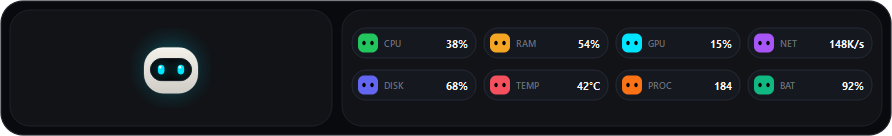
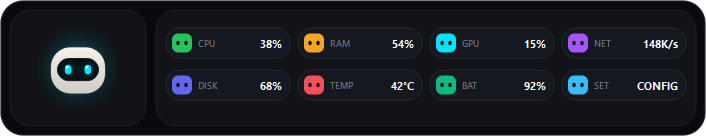
feat(island): compact left dock chamber and resize top island to 706px

diff --git a/src/senti_island.py b/src/senti_island.py
@@ -110,8 +110,8 @@ class TopIslandWindow(QWidget):
         # Ensure native platform window handle is instantiated
         self.winId()
 
-        # Minimalist 892 x 136 layout (clean dual-card design with 8 subsystem pills)
-        self.setFixedSize(892, 136)
+        # Minimalist 706 x 136 layout (clean dual-card design with 8 subsystem pills)
+        self.setFixedSize(706, 136)
 
         # Telemetry data
         self._telemetry: Dict[str, Any] = {
@@ -212,8 +212,8 @@ class TopIslandWindow(QWidget):
         anim_timer.start()
 
     def get_dock_target_pos(self, senti_size: int = 80) -> QPoint:
-        """Calculate screen position where SENTI nests inside Card 1 (cx: 171, cy: 68)."""
-        dock_x = self.x() + 171 - senti_size // 2
+        """Calculate screen position where SENTI nests inside Card 1 (cx: 78, cy: 68)."""
+        dock_x = self.x() + 78 - senti_size // 2
         dock_y = self.y() + 68 - senti_size // 2
         return QPoint(dock_x, dock_y)
 
@@ -239,26 +239,26 @@ class TopIslandWindow(QWidget):
     def _hit_test(self, pos: QPoint) -> Optional[str]:
         px, py = pos.x(), pos.y()
 
-        # Right Card: 8 subsystem pills in 4x2 matrix (px: 342..882, py: 10..126)
-        if 342 <= px <= 882 and 10 <= py <= 126:
+        # Right Card: 8 subsystem pills in 4x2 matrix (px: 156..696, py: 10..126)
+        if 156 <= px <= 696 and 10 <= py <= 126:
             # Row determination
             if py < 65:
                 # Row 1: CPU, RAM, GPU, NET
-                if px < 480:
+                if px < 294:
                     return "pill_cpu"
-                elif px < 612:
+                elif px < 426:
                     return "pill_ram"
-                elif px < 744:
+                elif px < 558:
                     return "pill_gpu"
                 else:
                     return "pill_net"
             else:
                 # Row 2: DISK, TEMP, SYS, SET
-                if px < 480:
+                if px < 294:
                     return "pill_disk"
-                elif px < 612:
+                elif px < 426:
                     return "pill_temp"
-                elif px < 744:
+                elif px < 558:
                     return "pill_sys"
                 else:
                     return "pill_set"
@@ -485,15 +485,15 @@ class TopIslandWindow(QWidget):
         self._paint_card_2(p)
 
     def _paint_card_1(self, p: QPainter):
-        """Paint Card 1 (Left: 322x116, radius 20, solid dark matte #111317)."""
-        c1_rect = QRectF(10.0, 10.0, 322.0, 116.0)
+        """Paint Card 1 (Left: 136x116, radius 20, solid dark matte #111317)."""
+        c1_rect = QRectF(10.0, 10.0, 136.0, 116.0)
         p.setPen(QPen(QColor("#1c2028"), 1.0))
         p.setBrush(QColor("#111317"))
         p.drawRoundedRect(c1_rect, 20.0, 20.0)
 
     def _paint_card_2(self, p: QPainter):
         """Paint Card 2 (Right: 540x116, radius 20, solid dark matte #111317, 8 pills in 4x2 grid)."""
-        c2_rect = QRectF(342.0, 10.0, 540.0, 116.0)
+        c2_rect = QRectF(156.0, 10.0, 540.0, 116.0)
         p.setPen(QPen(QColor("#1c2028"), 1.0))
         p.setBrush(QColor("#111317"))
         p.drawRoundedRect(c2_rect, 20.0, 20.0)
@@ -530,11 +530,11 @@ class TopIslandWindow(QWidget):
             hours = uptime_s / 3600.0
             bat_str = f"{hours:.1f}h" if hours < 24 else f"{(hours/24):.1f}d"
 
-        # 4x2 matrix layout (124px width, 8px gap -> 352..872)
-        col1_x = 352.0
-        col2_x = 484.0
-        col3_x = 616.0
-        col4_x = 748.0
+        # 4x2 matrix layout (124px width, 8px gap -> 166..686)
+        col1_x = 166.0
+        col2_x = 298.0
+        col3_x = 430.0
+        col4_x = 562.0
         row1_y = 28.0
         row2_y = 70.0
         pw = 124.0

diff --git a/tests/test_dashboard.py b/tests/test_dashboard.py
@@ -117,27 +117,27 @@ class TestDashboardAndSubsystems(unittest.TestCase):
 
     def test_island_pill_hit_testing(self):
         island = TopIslandWindow()
-        self.assertEqual(island.width(), 892)
+        self.assertEqual(island.width(), 706)
 
         # Row 1 (y: 26..62)
-        # Pill 1: CPU (col1_x: 350..478)
-        self.assertEqual(island._hit_test(QPoint(414, 44)), "pill_cpu")
-        # Pill 2: RAM (col2_x: 482..610)
-        self.assertEqual(island._hit_test(QPoint(546, 44)), "pill_ram")
-        # Pill 3: GPU (col3_x: 614..742)
-        self.assertEqual(island._hit_test(QPoint(678, 44)), "pill_gpu")
-        # Pill 4: NET (col4_x: 746..874)
-        self.assertEqual(island._hit_test(QPoint(810, 44)), "pill_net")
+        # Pill 1: CPU (col1_x: 166..290)
+        self.assertEqual(island._hit_test(QPoint(228, 44)), "pill_cpu")
+        # Pill 2: RAM (col2_x: 298..422)
+        self.assertEqual(island._hit_test(QPoint(360, 44)), "pill_ram")
+        # Pill 3: GPU (col3_x: 430..554)
+        self.assertEqual(island._hit_test(QPoint(492, 44)), "pill_gpu")
+        # Pill 4: NET (col4_x: 562..686)
+        self.assertEqual(island._hit_test(QPoint(624, 44)), "pill_net")
 
         # Row 2 (y: 68..104, 4 pills in 4x2 matrix)
-        # Pill 5: DISK (col1_x: 350..478)
-        self.assertEqual(island._hit_test(QPoint(414, 86)), "pill_disk")
-        # Pill 6: TEMP (col2_x: 482..610)
-        self.assertEqual(island._hit_test(QPoint(546, 86)), "pill_temp")
-        # Pill 7: SYS (col3_x: 614..742)
-        self.assertEqual(island._hit_test(QPoint(678, 86)), "pill_sys")
-        # Pill 8: SET (col4_x: 746..874)
-        self.assertEqual(island._hit_test(QPoint(810, 86)), "pill_set")
+        # Pill 5: DISK (col1_x: 166..290)
+        self.assertEqual(island._hit_test(QPoint(228, 86)), "pill_disk")
+        # Pill 6: TEMP (col2_x: 298..422)
+        self.assertEqual(island._hit_test(QPoint(360, 86)), "pill_temp")
+        # Pill 7: SYS (col3_x: 430..554)
+        self.assertEqual(island._hit_test(QPoint(492, 86)), "pill_sys")
+        # Pill 8: SET (col4_x: 562..686)
+        self.assertEqual(island._hit_test(QPoint(624, 86)), "pill_set")
         island.close()
 
     def test_comm_link_chat_flush_on_close(self):
